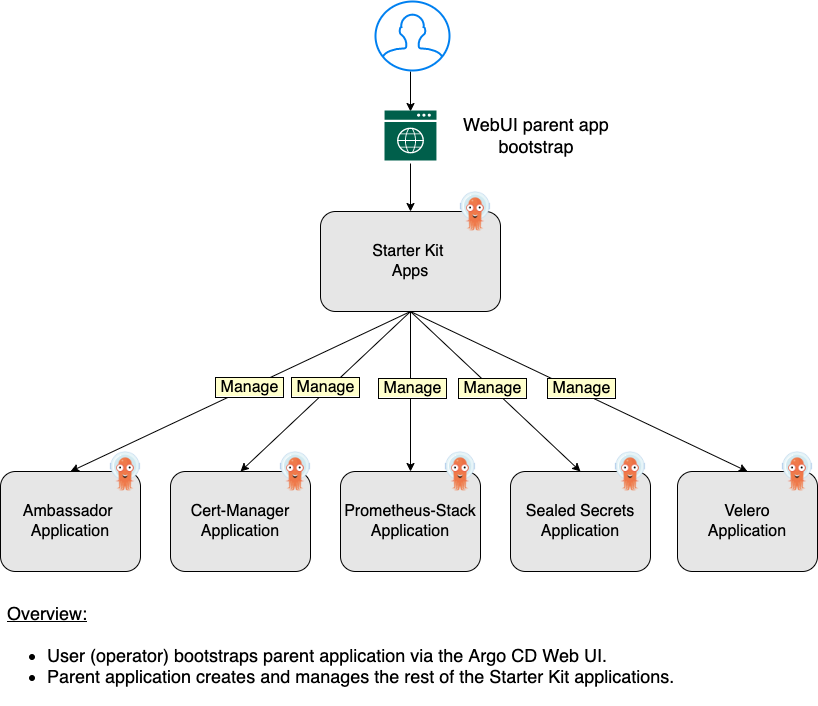
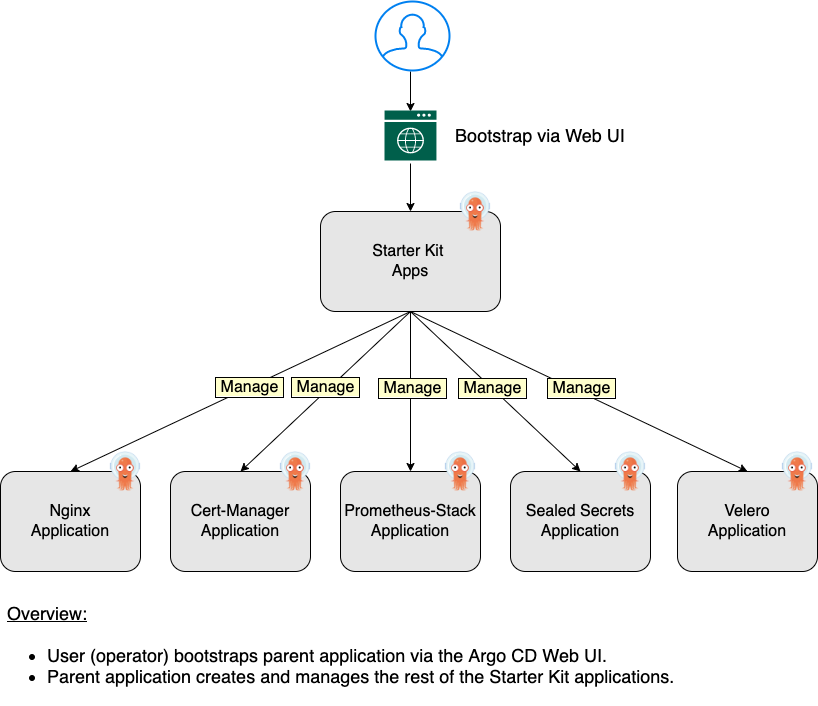
removed ambassador component in favor of nginx

Changed region(s): [[0.5501, 0.1558, 0.7641, 0.2181], [0.0306, 0.7167, 0.1528, 0.7479]]

diff --git a/15-continuous-delivery-using-gitops/argocd.md b/15-continuous-delivery-using-gitops/argocd.md
@@ -404,8 +404,8 @@ First you need to prepare your Git repository to use a consistent layout. In the
 clusters
 └── dev
     └── helm
-        ├── ambassador-stack-v7.2.2.yaml
         ├── cert-manager-v1.6.1.yaml
+        ├── nginx-v4.0.13.yaml
         ├── prometheus-stack-v30.0.1.yaml
         ├── sealed-secrets-v2.0.2.yaml
         └── velero-v2.27.3.yaml
@@ -431,14 +431,14 @@ Please open a terminal, and follow below steps to create the layout for your Git
 
     ```shell
     CERT_MANAGER_CHART_VERSION="1.6.1"
-    AMBASSADOR_CHART_VERSION="7.2.2"
+    NGINX_CHART_VERSION="4.0.13"
     PROMETHEUS_CHART_VERSION="30.0.1"
     SEALED_SECRETS_CHART_VERSION="2.0.2"
     VELERO_CHART_VERSION="2.27.3"
 
     curl "https://raw.githubusercontent.com/digitalocean/Kubernetes-Starter-Kit-Developers/main/15-continuous-delivery-using-gitops/assets/manifests/argocd/applications/helm/cert-manager-v${CERT_MANAGER_CHART_VERSION}.yaml" > "clusters/dev/helm/cert-manager-v${CERT_MANAGER_CHART_VERSION}.yaml"
 
-    curl "https://raw.githubusercontent.com/digitalocean/Kubernetes-Starter-Kit-Developers/main/15-continuous-delivery-using-gitops/assets/manifests/argocd/applications/helm/ambassador-stack-v${AMBASSADOR_CHART_VERSION}.yaml" > "clusters/dev/helm/ambassador-stack-v${AMBASSADOR_CHART_VERSION}.yaml"
+    curl "https://raw.githubusercontent.com/digitalocean/Kubernetes-Starter-Kit-Developers/main/15-continuous-delivery-using-gitops/assets/manifests/argocd/applications/helm/nginx-v${NGINX_CHART_VERSION}.yaml" > "clusters/dev/helm/nginx-v${NGINX_CHART_VERSION}.yaml"
 
     curl "https://raw.githubusercontent.com/digitalocean/Kubernetes-Starter-Kit-Developers/main/15-continuous-delivery-using-gitops/assets/manifests/argocd/applications/helm/prometheus-stack-v${PROMETHEUS_CHART_VERSION}.yaml" > "clusters/dev/helm/prometheus-stack-v${PROMETHEUS_CHART_VERSION}.yaml"
 
@@ -507,14 +507,14 @@ argocd app sync starter-kit-apps
 The output looks similar to:
 
 ```text
-TIMESTAMP                  GROUP              KIND    NAMESPACE                  NAME         STATUS    HEALTH        HOOK  MESSAGE
-2022-03-23T17:39:38+02:00  argoproj.io  Application      argocd  sealed-secrets-controller  OutOfSync  Missing              
-2022-03-23T17:39:38+02:00  argoproj.io  Application      argocd                velero       OutOfSync  Missing              
-2022-03-23T17:39:38+02:00  argoproj.io  Application      argocd      ambassador-stack       OutOfSync  Missing
+TIMESTAMP                  GROUP        KIND             NAMESPACE   NAME                       STATUS     HEALTH  ...
+2022-03-23T17:39:38+02:00  argoproj.io  Application      argocd      sealed-secrets-controller  OutOfSync  Missing ...            
+2022-03-23T17:39:38+02:00  argoproj.io  Application      argocd      velero                     OutOfSync  Missing ...             
+2022-03-23T17:39:38+02:00  argoproj.io  Application      argocd      ingress-nginx              OutOfSync  Missing ...
 ...
 GROUP        KIND         NAMESPACE  NAME                       STATUS  HEALTH  HOOK  MESSAGE
 argoproj.io  Application  argocd     sealed-secrets-controller  Synced                application.argoproj.io/sealed-secrets-controller created
-argoproj.io  Application  argocd     ambassador-stack           Synced                application.argoproj.io/ambassador-stack created
+argoproj.io  Application  argocd     ingress-nginx              Synced                application.argoproj.io/ingress-nginx created
 argoproj.io  Application  argocd     kube-prometheus-stack      Synced                application.argoproj.io/kube-prometheus-stack created
 argoproj.io  Application  argocd     velero                     Synced                application.argoproj.io/velero created
 argoproj.io  Application  argocd     cert-manager               Synced                application.argoproj.io/cert-manager created
@@ -534,7 +534,7 @@ The output looks similar to:
 
 ```text
 NAME                       CLUSTER                         NAMESPACE       PROJECT  STATUS     HEALTH   SYNCPOLICY  ...
-ambassador-stack           https://kubernetes.default.svc  ambassador      default  OutOfSync  Missing  Auto-Prune  ...
+ingress-nginx              https://kubernetes.default.svc  ingress-nginx   default  OutOfSync  Missing  Auto-Prune  ...
 cert-manager               https://kubernetes.default.svc  cert-manager    default  OutOfSync  Missing  Auto-Prune  ...
 kube-prometheus-stack      https://kubernetes.default.svc  monitoring      default  OutOfSync  Missing  Auto-Prune  ...
 sealed-secrets-controller  https://kubernetes.default.svc  sealed-secrets  default  OutOfSync  Missing  Auto-Prune  ...
@@ -560,7 +560,7 @@ The output looks similar to (notice that all applications are synced now):
 
 ```text
 NAME                       CLUSTER                         NAMESPACE       PROJECT  STATUS    HEALTH   SYNCPOLICY  ...
-ambassador-stack           https://kubernetes.default.svc  ambassador      default  Synced    Healthy  Auto-Prune  ...
+ingress-nginx              https://kubernetes.default.svc  ingress-nginx   default  Synced    Healthy  Auto-Prune  ...
 cert-manager               https://kubernetes.default.svc  cert-manager    default  Synced    Healthy  Auto-Prune  ...
 kube-prometheus-stack      https://kubernetes.default.svc  monitoring      default  Synced    Healthy  Auto-Prune  ...
 sealed-secrets-controller  https://kubernetes.default.svc  sealed-secrets  default  Synced    Healthy  Auto-Prune  ...
@@ -783,7 +783,6 @@ Going further, `Argo CD` offers more interesting features, like:
 
 - [Application Projects](https://argo-cd.readthedocs.io/en/stable/user-guide/projects)
 - [Overriding Application Parameters](https://argo-cd.readthedocs.io/en/stable/user-guide/parameters)
-- [Using Argo CD with Sealed Secrets](https://utkuozdemir.org/blog/argocd-helm-secrets)
 - [Working with Private Git Repositories](https://argo-cd.readthedocs.io/en/stable/user-guide/private-repositories)
 - [Orphaned Resources Monitoring](https://argo-cd.readthedocs.io/en/stable/user-guide/orphaned-resources)
 - [Tracking and Deployment Strategies](https://argo-cd.readthedocs.io/en/stable/user-guide/tracking_strategies)
@@ -793,3 +792,7 @@ Going further, `Argo CD` offers more interesting features, like:
 - [Best Practices Guide](https://argo-cd.readthedocs.io/en/stable/user-guide/best_practices)
 - [Security Considerations](https://argo-cd.readthedocs.io/en/stable/security_considerations)
 - [Progressive Delivery using Argo Rollouts](https://argoproj.github.io/argo-rollouts)
+
+External resources:
+
+- [Using Argo CD with Sealed Secrets](https://utkuozdemir.org/blog/argocd-helm-secrets)
